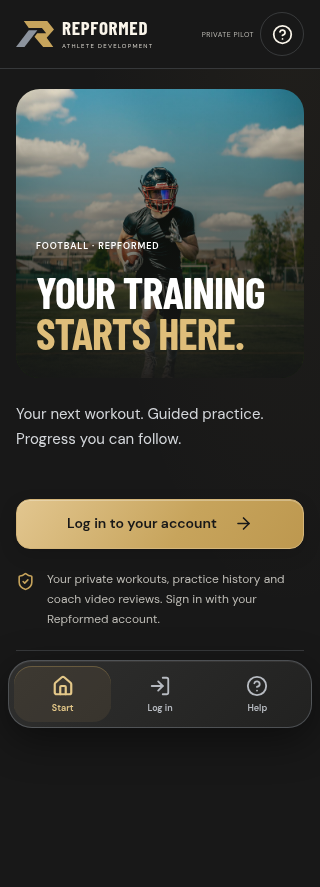
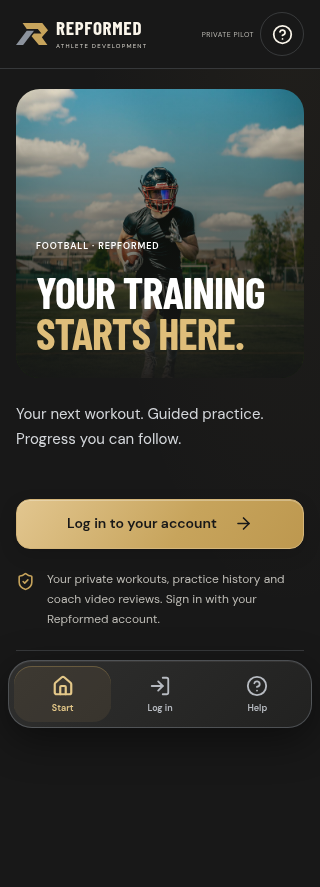
Keep Repformed navigation within narrow and tablet layouts

Changed region(s): [[0.0625, 0.0, 0.4688, 0.0609]]

diff --git a/src/repformed.css b/src/repformed.css
@@ -159,6 +159,16 @@
 .experience .footer-bottom {
   border-color: #8c939d40;
 }
+@media (max-width: 1000px) {
+  .experience .footer-inner {
+    flex-wrap: wrap;
+  }
+  .experience .footer-inner > div {
+    flex-wrap: wrap;
+    min-width: 0;
+    max-width: 100%;
+  }
+}
 .experience .quick-help-question:hover {
   border-color: var(--brand-gold);
 }
@@ -230,13 +240,16 @@
   }
 }
 @media (max-width: 380px) {
-  .mobile-layout .brand {
+  .experience .brand {
     gap: 8px;
   }
-  .mobile-layout .brand-name {
+  .experience .brand-mark {
+    width: 32px;
+  }
+  .experience .brand-name {
     font-size: 19px;
   }
-  .mobile-layout .brand-name > span {
+  .experience .brand-name > span {
     font-size: 6px;
   }
   .app-header-tools {

diff --git a/tests/views.spec.ts b/tests/views.spec.ts
@@ -40,7 +40,7 @@ test("the public website has one customer demo entry, with parent and solo journ
   await expect(page).toHaveURL(/#account$/);
   await page
     .getByRole("banner")
-    .getByRole("link", { name: "Repformed", exact: true })
+    .getByRole("link", { name: "REPFORMED ATHLETE DEVELOPMENT", exact: true })
     .click();
   await expect(page).toHaveURL(/#home$/);
   const buttons = page.getByRole("link", { name: "Try the demo", exact: true });
